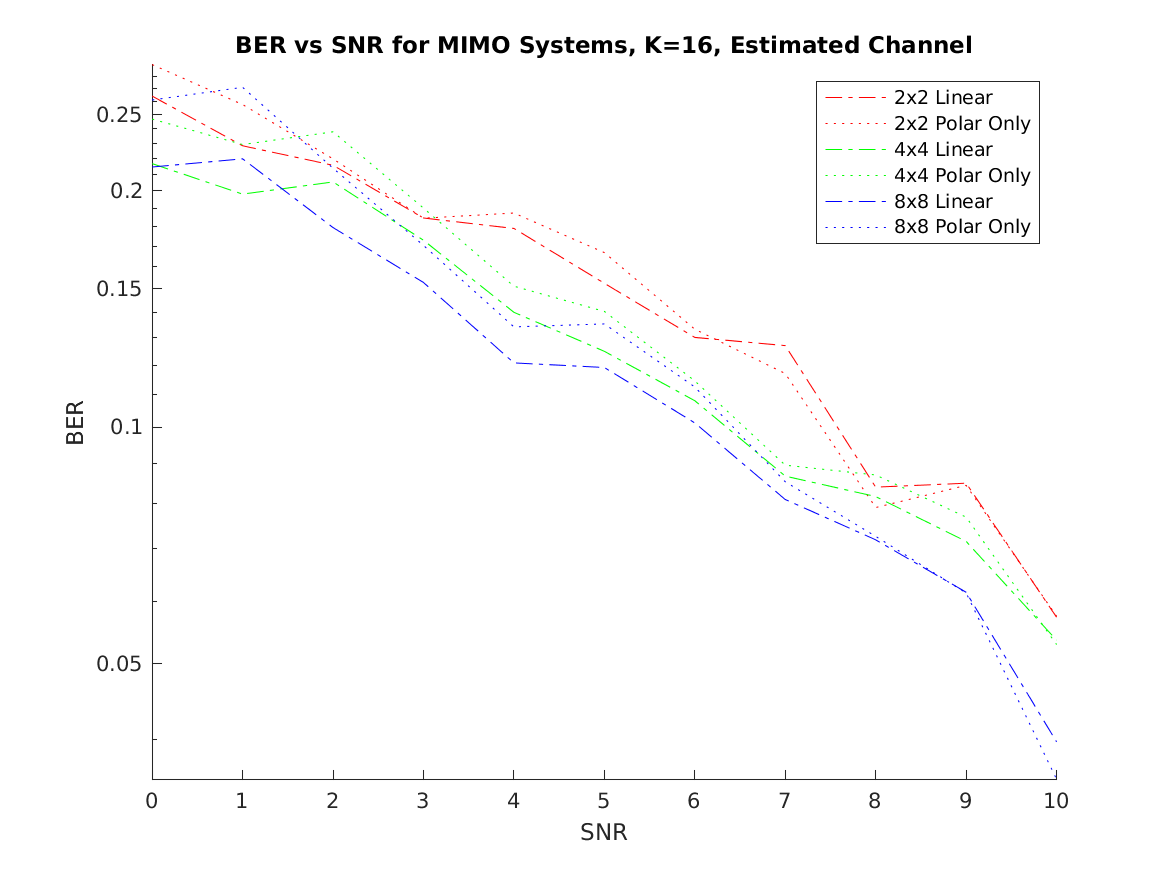
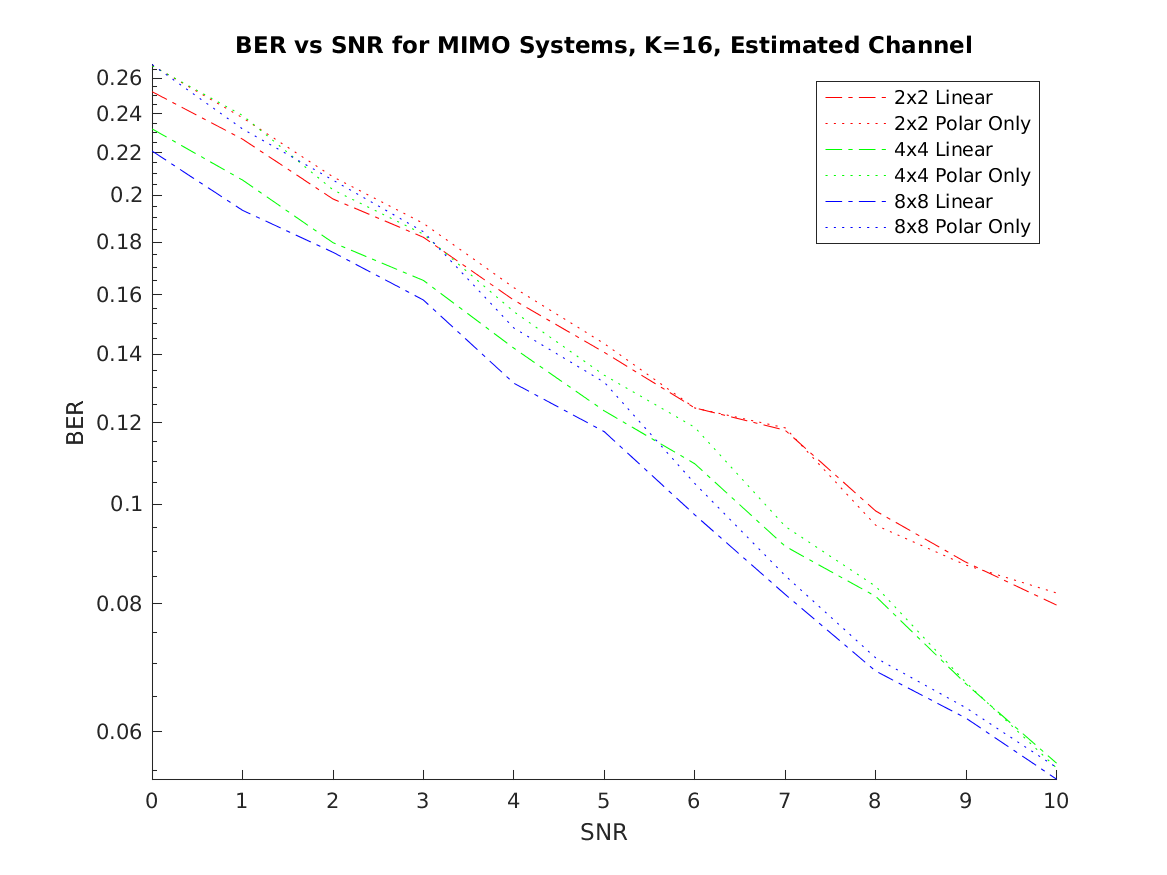
revised plots

diff --git a/PlotEstimateBaseline.m b/PlotEstimateBaseline.m
@@ -1,5 +1,5 @@
 LEN = 4; % how many K-bit length messages we will send (per tx/rx)
-ITERS = 100;
+ITERS = 1000;
 snr = 0:10;
 n = 2; % number of tx and rx antennas
 K = 16; % bits per msg
